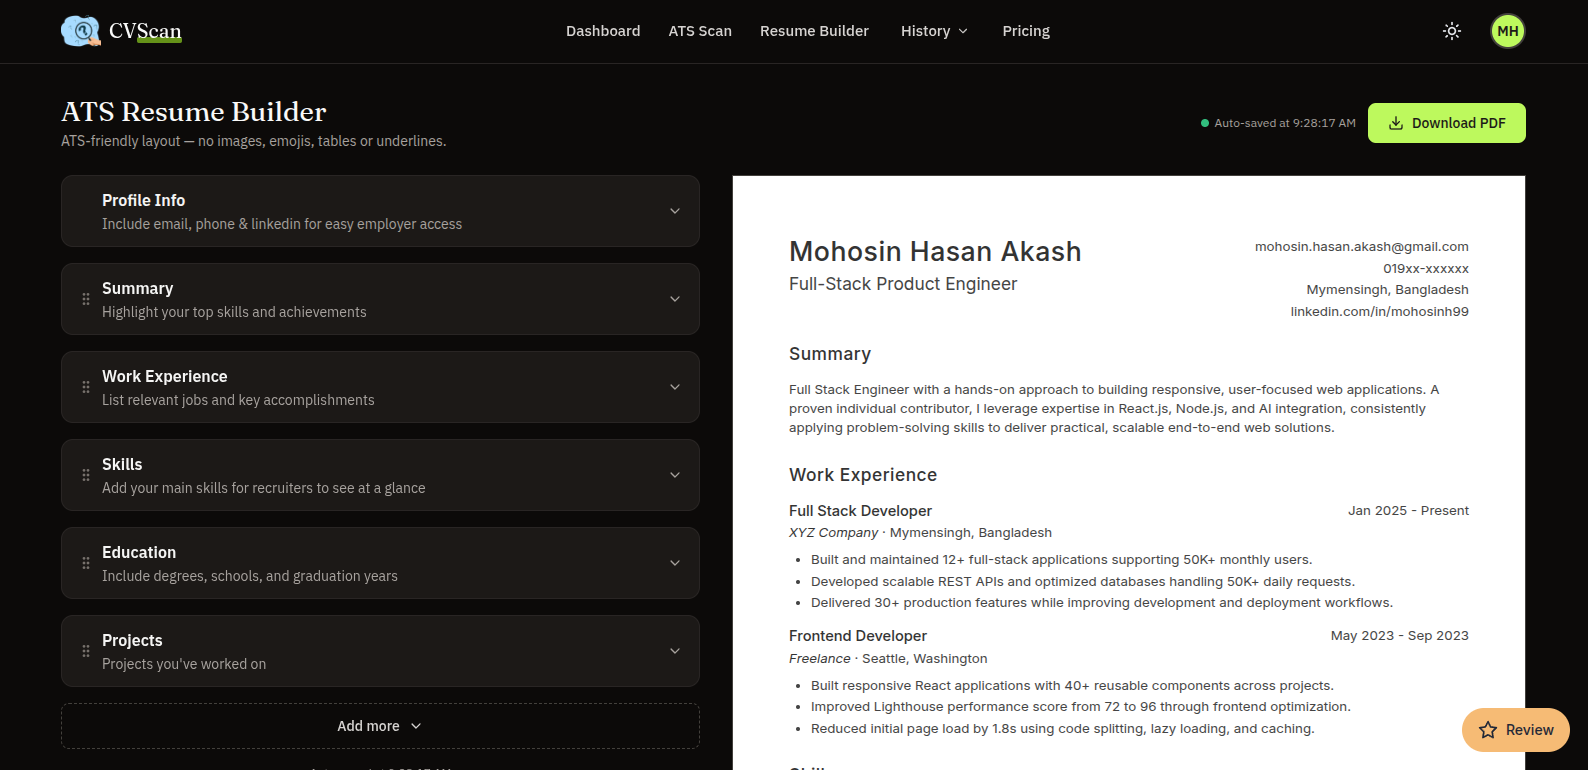
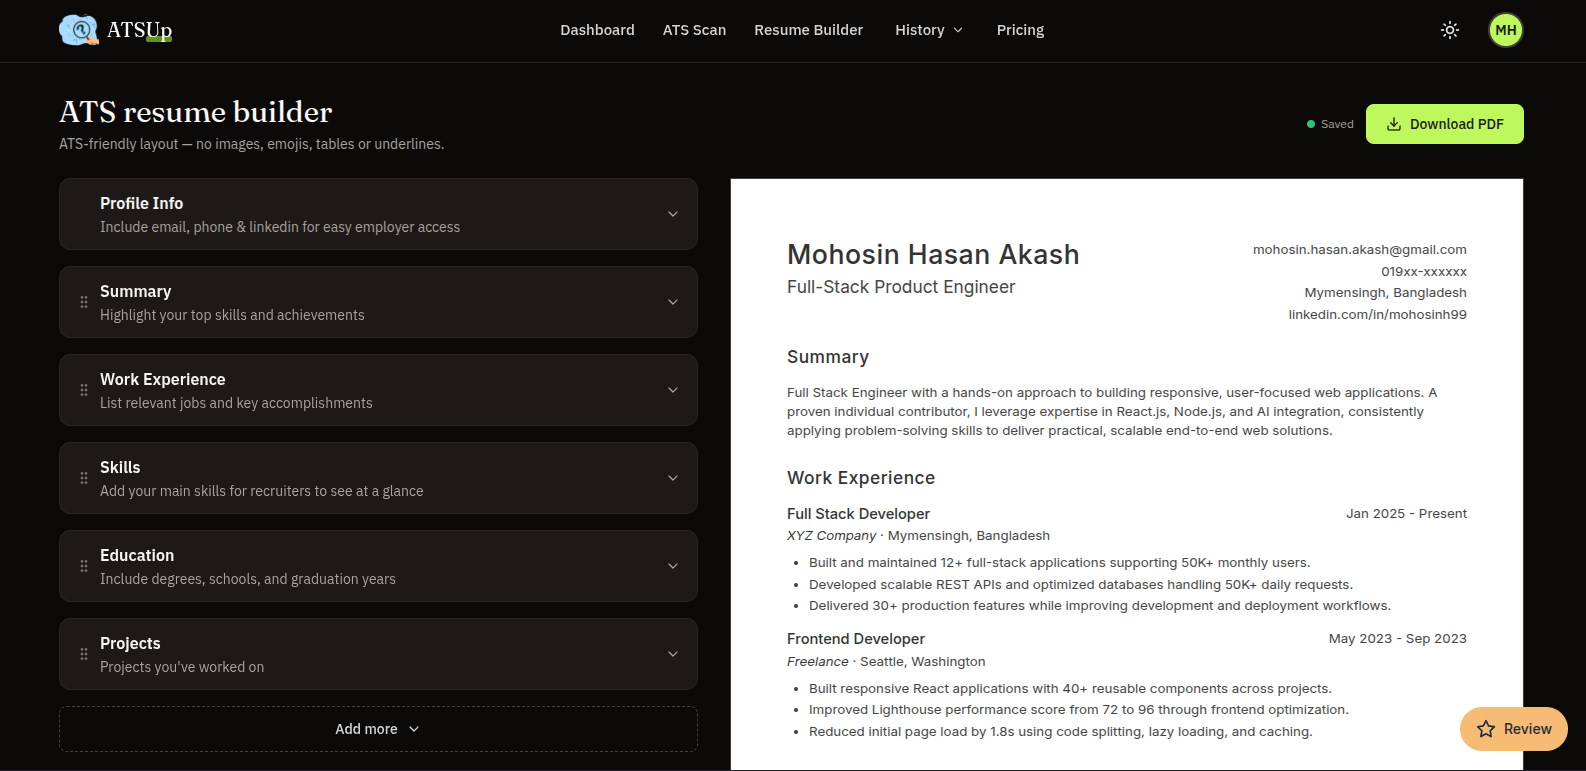
Design almost complete

diff --git a/frontend/src/components/Navbar.tsx b/frontend/src/components/Navbar.tsx
@@ -53,9 +53,9 @@
 //           <div className="flex items-center justify-between h-14">
 //             {/* Left: Logo */}
 //             <Link to="/" className="flex items-center gap-2 font-mono shrink-0">
-//               <img src="/favicon.png" alt="CVScan" className="w-10 h-8" />
+//               <img src="/favicon.png" alt="ATSUp" className="w-10 h-8" />
 //               <span className="text-xl font-bold text-gray-800 dark:text-gray-100">
-//                 CV<span className="text-cyan-500">Scan</span>
+//                 ATS<span className="text-cyan-500">Up</span>
 //               </span>
 //             </Link>
 
@@ -221,10 +221,10 @@ export default function Navbar() {
           <div className="flex items-center justify-between h-14">
             {/* Left: Logo */}
             <Link to="/" className="flex items-center gap-2 shrink-0">
-              <img src="/favicon.png" alt="CVScan" className="w-10 h-8" />
+              <img src="/favicon.png" alt="ATSUp" className="w-10 h-8" />
               <span className="font-fraunces text-xl text-stone-900 dark:text-stone-50">
-                CV<span className="relative inline-block">
-                  <span className="relative z-10">Scan</span>
+                ATS<span className="relative inline-block">
+                  <span className="relative z-10">Up</span>
                   <span className="absolute left-0 right-0 bottom-[0.1em] h-[0.28em] bg-lime-300/80 dark:bg-lime-400/60 rounded-[2px] -z-0" />
                 </span>
               </span>

diff --git a/frontend/src/components/Footer.tsx b/frontend/src/components/Footer.tsx
@@ -42,11 +42,11 @@ const Footer = () => {
         <div className="flex flex-col lg:flex-row items-center justify-between gap-4 text-sm">
           {/* Left: Logo */}
           <div className="flex items-center gap-2 whitespace-nowrap">
-            <img src="/favicon.png" alt="CVScan" className="w-8 h-6" />
+            <img src="/favicon.png" alt="ATSUp" className="w-8 h-6" />
             <span className="font-fraunces text-lg font-medium text-stone-900 dark:text-stone-50">
-              CV
+              ATS
               <span className="relative inline-block">
-                <span className="relative z-10">Scan</span>
+                <span className="relative z-10">Up</span>
                 <span className="absolute left-0 right-0 bottom-[0.1em] h-[0.28em] bg-lime-300/80 dark:bg-lime-400/70 rounded-[2px] -z-0" />
               </span>
             </span>
@@ -85,7 +85,7 @@ const Footer = () => {
 
         {/* Bottom: Copyright */}
         <p className="text-center text-xs text-stone-400 dark:text-stone-500 mt-8">
-          © 2026 CVScan. All rights reserved.
+          © 2026 ATSUp. All rights reserved.
         </p>
       </Wrapper>
 

diff --git a/frontend/src/components/home-page/ComparisonSection.tsx b/frontend/src/components/home-page/ComparisonSection.tsx
@@ -20,14 +20,14 @@ export default function ComparisonSection() {
             Comparison
           </span> */}
           <h2 className="font-fraunces text-2xl md:text-3xl xl:text-4xl font-normal text-stone-900 dark:text-stone-50">
-            Why CVScan over others?
+            Why ATSUp over others?
           </h2>
         </div>
 
         <div className="max-w-3xl mx-auto overflow-hidden rounded-2xl border border-stone-200 dark:border-stone-800 bg-white dark:bg-stone-900">
           <div className="grid grid-cols-3 gap-4 px-6 py-4 bg-stone-900 dark:bg-stone-800 text-xs md:text-sm font-semibold text-stone-50">
             <span>Feature</span>
-            <span className="text-center text-lime-300">CVScan</span>
+            <span className="text-center text-lime-300">ATSUp</span>
             <span className="text-center text-stone-400">Others</span>
           </div>
           {rows.map((row) => (

diff --git a/frontend/src/pages/ResumeUpload.tsx b/frontend/src/pages/ResumeUpload.tsx
@@ -280,7 +280,7 @@ export default function ResumeUpload() {
 
       <Wrapper className="relative">
         {/* Main card */}
-        <div className="bg-white dark:bg-stone-900 rounded-2xl border border-stone-200 dark:border-stone-800 shadow-xl overflow-hidden">
+        <div className="bg-white dark:bg-stone-900 rounded-2xl border border-stone-200 dark:border-stone-800 box-shadow overflow-hidden">
           <div className="h-1.5 bg-amber-400 dark:bg-amber-300" />
           <div className="p-6 md:p-8 grid grid-cols-1 lg:grid-cols-2 gap-8">
             {/* Left: Upload */}

diff --git a/frontend/src/constants/landingData.ts b/frontend/src/constants/landingData.ts
@@ -61,7 +61,7 @@ export const staticReviews = [
     id: "static-1",
     name: "Rahim Ahmed",
     role: "Software Engineer",
-    content: "CVScan helped me boost my ATS score from 42% to 89%. Got 3 interview calls within a week. The category breakdown is super clear!",
+    content: "ATSUp helped me boost my ATS score from 42% to 89%. Got 3 interview calls within a week. The category breakdown is super clear!",
     rating: 5,
   },
   {

diff --git a/backend/dist/server.js b/backend/dist/server.js
@@ -5236,12 +5236,12 @@ var app = express2();
 app.set("trust proxy", 1);
 applyMiddleware(app);
 app.get("/", (_req, res) => {
-  res.send("CVScan - Welcome to the API");
+  res.send("ATSUp - Welcome to the API");
 });
 app.get("/health", (_req, res) => {
   res.json({
     status: "OK",
-    message: "CVScan is healthy"
+    message: "ATSUp is healthy"
   });
 });
 moduleRoutes.forEach(({ path: path6, router: router9 }) => {

diff --git a/backend/src/app.ts b/backend/src/app.ts
@@ -15,13 +15,13 @@ app.set("trust proxy", 1);
 applyMiddleware(app);
 
 app.get("/", (_req: Request, res: Response) => {
-  res.send("CVScan - Welcome to the API");
+  res.send("ATSUp - Welcome to the API");
 });
 
 app.get("/health", (_req: Request, res: Response) => {
   res.json({
     status: "OK",
-    message: "CVScan is healthy",
+    message: "ATSUp is healthy",
   });
 });
 

diff --git a/frontend/index.html b/frontend/index.html
@@ -10,7 +10,7 @@
     />
     <meta name="color-scheme" content="dark only" />
     <meta name="darkreader-lock" content="lock" />
-    <title>CVScan</title>
+    <title>ATSUp</title>
     <link rel="preconnect" href="https://fonts.googleapis.com" />
     <link rel="preconnect" href="https://fonts.gstatic.com" crossorigin />
     <link

diff --git a/frontend/src/utils/pdfExport.ts b/frontend/src/utils/pdfExport.ts
@@ -580,7 +580,7 @@ function generateHtmlContent(content: ResumeContent): string {
 <head>
   <meta charset="UTF-8">
   <meta name="viewport" content="width=device-width, initial-scale=1.0">
-  <title>Resume - CVScan</title>
+  <title>Resume - ATSUp</title>
   <script src="https://cdn.tailwindcss.com"></script>
   <style>
     @page {

diff --git a/README.md b/README.md
@@ -1,6 +1,6 @@
-# CVScan - AI-Powered Resume Analysis & Builder Platform (AI)
+# ATSUp - AI-Powered Resume Analysis & Builder Platform (AI)
 
-CVScan is an AI-powered resume analysis and building platform that helps job seekers optimize their resumes for Applicant Tracking Systems (ATS) and job matching. Users can upload resumes to receive detailed ATS scores, missing keyword identification, and AI-generated improvement recommendations. The platform also features resume-to-job matching with skills gap analysis, a professional resume builder with AI-powered content generation, plus secure authentication, Stripe payment integration for premium features, and a centralized dashboard.
+ATSUp is an AI-powered resume analysis and building platform that helps job seekers optimize their resumes for Applicant Tracking Systems (ATS) and job matching. Users can upload resumes to receive detailed ATS scores, missing keyword identification, and AI-generated improvement recommendations. The platform also features resume-to-job matching with skills gap analysis, a professional resume builder with AI-powered content generation, plus secure authentication, Stripe payment integration for premium features, and a centralized dashboard.
 
 ⚠─ Important: MONGODB*URI now points to mongodb://mongo:27017/cvcoach (inside Docker network) instead of your Atlas URI. You'll need a .env file OpenCode includes free models  
  with the secrets (GEMINI_API_KEY, JWT_SECRET, STRIPE*\* etc.) for Docker Compose to pick up, or replace the values inline. so you can start immediately.
@@ -23,7 +23,7 @@ CVScan is an AI-powered resume analysis and building platform that helps job see
 
 ## Live Demo
 
-[CVScan App](https://cvcoach-client.vercel.app/) - Try the live application
+[ATSUp App](https://cvcoach-client.vercel.app/) - Try the live application
 
 ## Features
 
